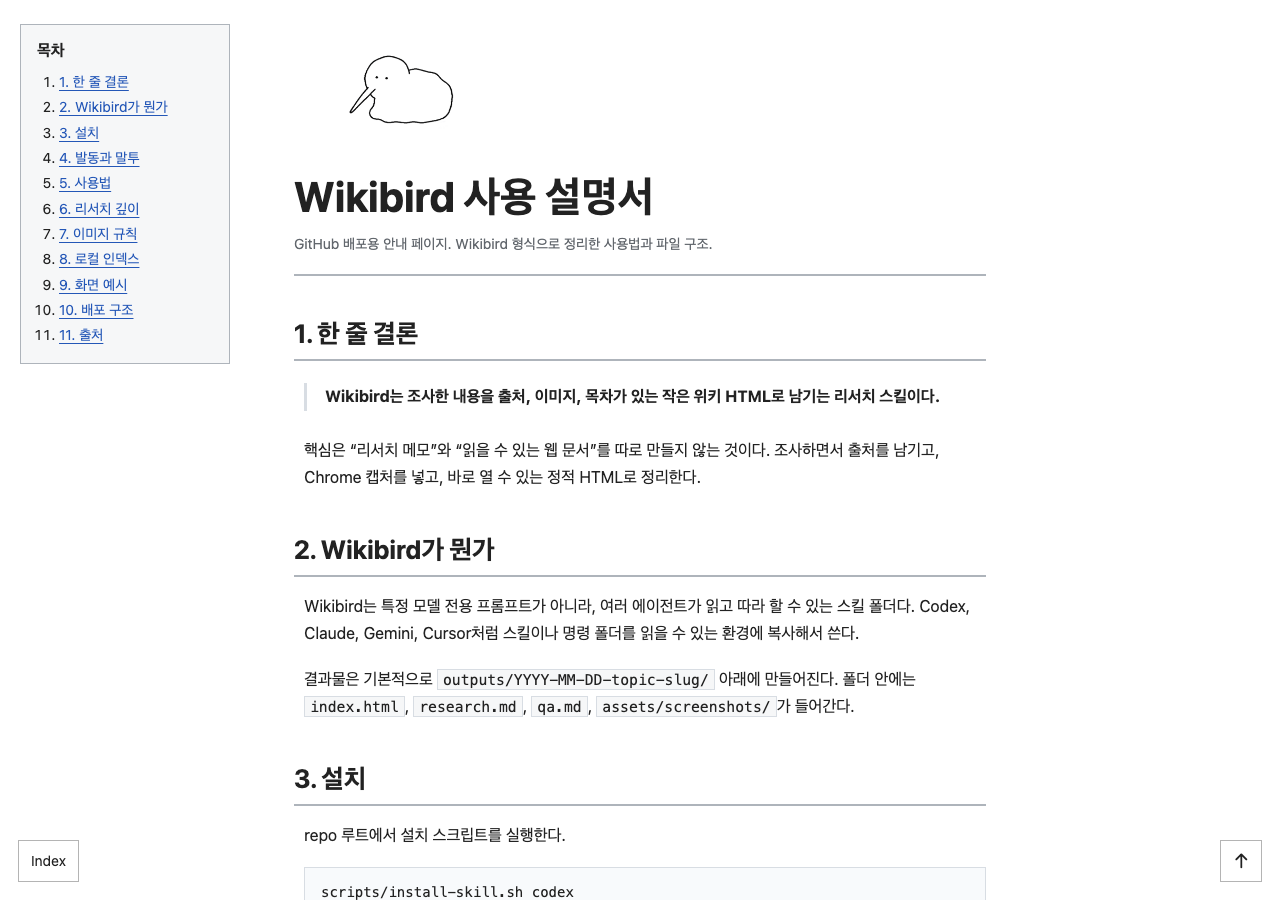
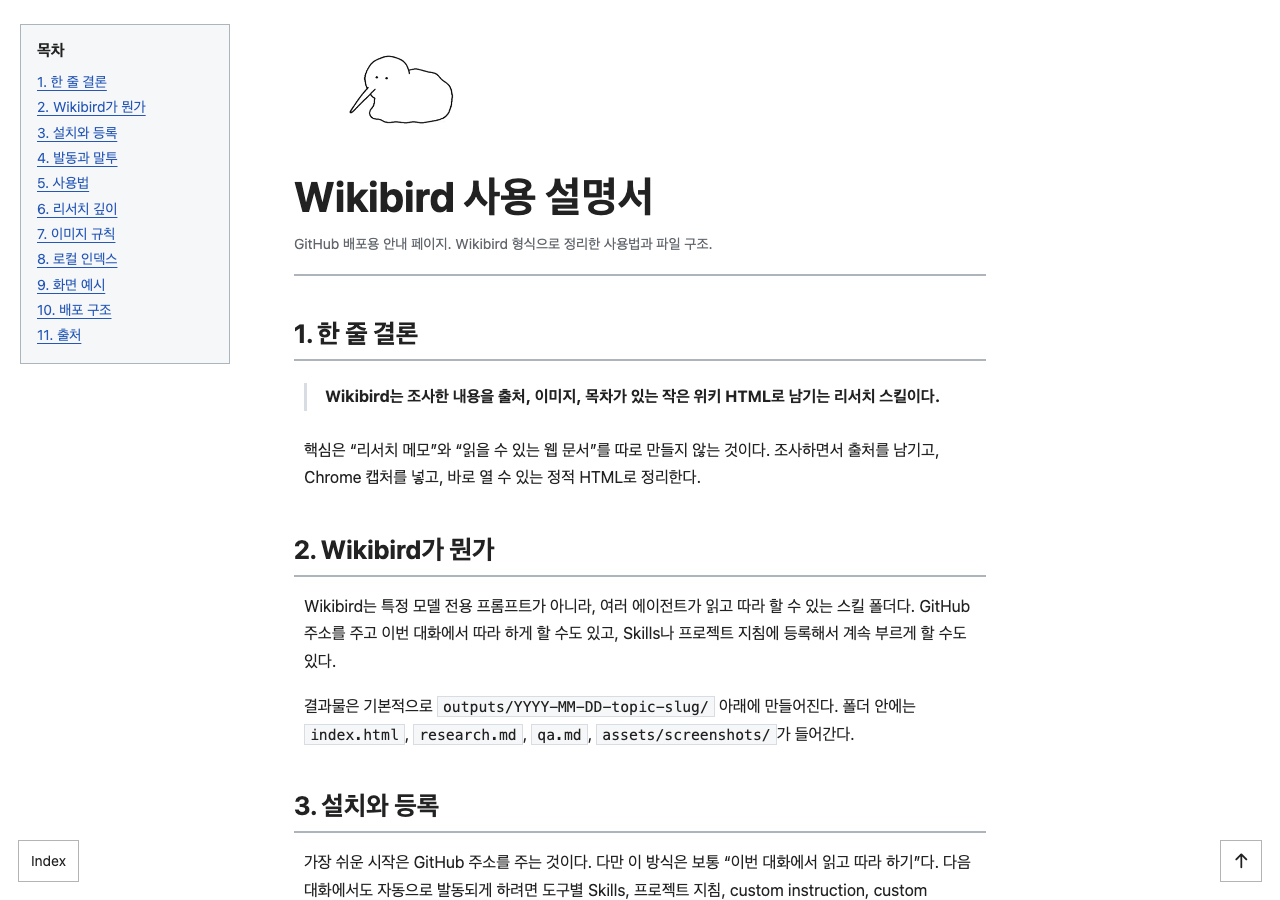
Refine Wikibird install guidance

Changed region(s): [[0.2188, 0.6533, 0.75, 1.0], [0.0312, 0.0622, 0.125, 0.4044]]

diff --git a/docs/index.html b/docs/index.html
@@ -158,7 +158,8 @@
 
 		.toc ol {
 			margin: 0;
-			padding-left: 22px;
+			padding-left: 0;
+			list-style: none;
 		}
 
 		.toc li { margin: 5px 0; }
@@ -382,7 +383,7 @@
 			<ol>
 				<li><a href="#summary">1. 한 줄 결론</a></li>
 				<li><a href="#what">2. Wikibird가 뭔가</a></li>
-				<li><a href="#install">3. 설치</a></li>
+				<li><a href="#install">3. 설치와 등록</a></li>
 				<li><a href="#activation">4. 발동과 말투</a></li>
 				<li><a href="#usage">5. 사용법</a></li>
 				<li><a href="#depth">6. 리서치 깊이</a></li>
@@ -404,20 +405,18 @@
 
 		<section id="what">
 			<h2>2. Wikibird가 뭔가</h2>
-			<p>Wikibird는 특정 모델 전용 프롬프트가 아니라, 여러 에이전트가 읽고 따라 할 수 있는 스킬 폴더다. Codex, Claude, Gemini, Cursor처럼 스킬이나 명령 폴더를 읽을 수 있는 환경에 복사해서 쓴다.</p>
+			<p>Wikibird는 특정 모델 전용 프롬프트가 아니라, 여러 에이전트가 읽고 따라 할 수 있는 스킬 폴더다. GitHub 주소를 주고 이번 대화에서 따라 하게 할 수도 있고, Skills나 프로젝트 지침에 등록해서 계속 부르게 할 수도 있다.</p>
 			<p>결과물은 기본적으로 <code>outputs/YYYY-MM-DD-topic-slug/</code> 아래에 만들어진다. 폴더 안에는 <code>index.html</code>, <code>research.md</code>, <code>qa.md</code>, <code>assets/screenshots/</code>가 들어간다.</p>
 		</section>
 
 		<section id="install">
-			<h2>3. 설치</h2>
-			<p>repo 루트에서 설치 스크립트를 실행한다.</p>
+			<h2>3. 설치와 등록</h2>
+			<p>가장 쉬운 시작은 GitHub 주소를 주는 것이다. 다만 이 방식은 보통 “이번 대화에서 읽고 따라 하기”다. 다음 대화에서도 자동으로 발동되게 하려면 도구별 Skills, 프로젝트 지침, custom instruction, custom command 중 하나에 등록한다.</p>
+			<pre><code>https://github.com/hyun2xyz/wiki_bird</code></pre>
+			<p>터미널형 에이전트에서는 repo 루트에서 설치 스크립트를 실행하는 방식이 가장 단순하다.</p>
 			<pre><code>scripts/install-skill.sh codex
 scripts/install-skill.sh claude
-scripts/install-skill.sh gemini
-scripts/install-skill.sh cursor</code></pre>
-			<p>전부 설치하려면 이렇게 실행한다.</p>
-			<pre><code>scripts/install-skill.sh all</code></pre>
-			<p>직접 복사해도 된다. 핵심은 <code>skills/wikibird-research-html</code> 폴더가 각 도구의 skills 폴더 안에 들어가는 것이다.</p>
+scripts/install-skill.sh all</code></pre>
 		</section>
 
 		<section id="activation">
@@ -428,14 +427,14 @@ scripts/install-skill.sh cursor</code></pre>
 			<div class="table-wrap">
 				<table>
 					<thead>
-						<tr><th>환경</th><th>넣는 방법</th><th>부르는 방법</th><th>메모</th></tr>
+						<tr><th>환경</th><th>쉬운 시작</th><th>계속 쓰는 방법</th><th>부르는 말</th></tr>
 					</thead>
 					<tbody>
-						<tr><td>ChatGPT / GPT</td><td>ChatGPT Skills에 스킬 폴더 업로드</td><td><code>$wikibird-research-html</code> 또는 “Wikibird로 조사해줘”</td><td>Agent Skills 형식 기준</td></tr>
-						<tr><td>Codex</td><td><code>scripts/install-skill.sh codex</code></td><td><code>Use $wikibird-research-html</code></td><td>프로젝트 <code>AGENTS.md</code>에도 규칙을 둘 수 있음</td></tr>
-						<tr><td>Claude</td><td>Claude Skills UI나 워크스페이스 Skills에 업로드</td><td>“Wikibird skill을 써줘”</td><td>플랜/워크스페이스 설정에 따라 다름</td></tr>
-						<tr><td>Claude Code</td><td><code>scripts/install-skill.sh claude</code></td><td>“Use wikibird-research-html”</td><td>프로젝트 전용 <code>.claude/skills/</code>도 가능</td></tr>
-						<tr><td>Gemini CLI</td><td><code>~/.gemini/skills/</code> 또는 custom command</td><td><code>/wikibird 주제</code></td><td>fallback은 <code>adapters/gemini/commands/wikibird.toml</code></td></tr>
+						<tr><td>ChatGPT / GPT</td><td>GitHub 주소를 주고 <code>README.md</code>, <code>SKILL.md</code>를 읽게 함</td><td>Skills 업로드가 있으면 zip 업로드. 없으면 Custom Instructions나 프로젝트 지침에 핵심 규칙 붙이기</td><td>“Wikibird로 조사해줘”</td></tr>
+						<tr><td>Codex</td><td><code>scripts/install-skill.sh codex</code></td><td><code>~/.codex/skills/</code> 또는 프로젝트 <code>AGENTS.md</code></td><td><code>Use $wikibird-research-html</code></td></tr>
+						<tr><td>Claude 앱</td><td>GitHub 주소를 주고 이번 대화에서 따라 하게 함</td><td>Skills 기능이 있으면 업로드. 없으면 Project knowledge나 custom instruction에 <code>SKILL.md</code> 넣기</td><td>“Wikibird skill을 써줘”</td></tr>
+						<tr><td>Claude Code</td><td><code>scripts/install-skill.sh claude</code></td><td><code>~/.claude/skills/</code> 또는 프로젝트 <code>.claude/skills/</code></td><td>“Use wikibird-research-html”</td></tr>
+						<tr><td>Gemini CLI</td><td>GitHub 주소나 <code>SKILL.md</code>를 읽게 함</td><td><code>scripts/install-skill.sh gemini</code>로 스킬 폴더와 <code>/wikibird</code> 명령을 같이 설치</td><td><code>/wikibird 주제</code></td></tr>
 					</tbody>
 				</table>
 			</div>
@@ -467,7 +466,7 @@ scripts/install-skill.sh cursor</code></pre>
 					</tbody>
 				</table>
 			</div>
-			<p>사용자가 깊이를 말하지 않으면 기본은 <code>중</code>이다. “쭉”, “자세히”, “공부용” 같은 표현이면 보통 <code>상</code>에 가깝게 잡는다.</p>
+			<p>Wikibird를 처음 등록하거나 처음 부를 때는 기본 리서치 깊이를 먼저 물어본다. 사용자가 깊이를 말하지 않고 바로 작업을 시키면 기본은 <code>중</code>으로 진행하고, 다음부터 바꿀 수 있다고 알려 준다.</p>
 		</section>
 
 		<section id="images">

diff --git a/outputs/2026-05-28-wikibird-manual/index.html b/outputs/2026-05-28-wikibird-manual/index.html
@@ -158,7 +158,8 @@
 
 		.toc ol {
 			margin: 0;
-			padding-left: 22px;
+			padding-left: 0;
+			list-style: none;
 		}
 
 		.toc li { margin: 5px 0; }
@@ -392,7 +393,7 @@
 			<ol>
 				<li><a href="#summary">1. 한 줄 결론</a></li>
 				<li><a href="#what">2. Wikibird가 뭔가</a></li>
-				<li><a href="#install">3. 설치</a></li>
+				<li><a href="#install">3. 설치와 등록</a></li>
 				<li><a href="#activation">4. 발동과 말투</a></li>
 				<li><a href="#usage">5. 사용법</a></li>
 				<li><a href="#depth">6. 리서치 깊이</a></li>
@@ -414,20 +415,18 @@
 
 		<section id="what">
 			<h2>2. Wikibird가 뭔가</h2>
-			<p>Wikibird는 특정 모델 전용 프롬프트가 아니라, 여러 에이전트가 읽고 따라 할 수 있는 스킬 폴더다. Codex, Claude, Gemini, Cursor처럼 스킬이나 명령 폴더를 읽을 수 있는 환경에 복사해서 쓴다.</p>
+			<p>Wikibird는 특정 모델 전용 프롬프트가 아니라, 여러 에이전트가 읽고 따라 할 수 있는 스킬 폴더다. GitHub 주소를 주고 이번 대화에서 따라 하게 할 수도 있고, Skills나 프로젝트 지침에 등록해서 계속 부르게 할 수도 있다.</p>
 			<p>결과물은 기본적으로 <code>outputs/YYYY-MM-DD-topic-slug/</code> 아래에 만들어진다. 폴더 안에는 <code>index.html</code>, <code>research.md</code>, <code>qa.md</code>, <code>assets/screenshots/</code>가 들어간다.</p>
 		</section>
 
 		<section id="install">
-			<h2>3. 설치</h2>
-			<p>repo 루트에서 설치 스크립트를 실행한다.</p>
+			<h2>3. 설치와 등록</h2>
+			<p>가장 쉬운 시작은 GitHub 주소를 주는 것이다. 다만 이 방식은 보통 “이번 대화에서 읽고 따라 하기”다. 다음 대화에서도 자동으로 발동되게 하려면 도구별 Skills, 프로젝트 지침, custom instruction, custom command 중 하나에 등록한다.</p>
+			<pre><code>https://github.com/hyun2xyz/wiki_bird</code></pre>
+			<p>터미널형 에이전트에서는 repo 루트에서 설치 스크립트를 실행하는 방식이 가장 단순하다.</p>
 			<pre><code>scripts/install-skill.sh codex
 scripts/install-skill.sh claude
-scripts/install-skill.sh gemini
-scripts/install-skill.sh cursor</code></pre>
-			<p>전부 설치하려면 이렇게 실행한다.</p>
-			<pre><code>scripts/install-skill.sh all</code></pre>
-			<p>직접 복사해도 된다. 핵심은 <code>skills/wikibird-research-html</code> 폴더가 각 도구의 skills 폴더 안에 들어가는 것이다.</p>
+scripts/install-skill.sh all</code></pre>
 		</section>
 
 		<section id="activation">
@@ -438,14 +437,14 @@ scripts/install-skill.sh cursor</code></pre>
 			<div class="table-wrap">
 				<table>
 					<thead>
-						<tr><th>환경</th><th>넣는 방법</th><th>부르는 방법</th><th>메모</th></tr>
+						<tr><th>환경</th><th>쉬운 시작</th><th>계속 쓰는 방법</th><th>부르는 말</th></tr>
 					</thead>
 					<tbody>
-						<tr><td>ChatGPT / GPT</td><td>ChatGPT Skills에 스킬 폴더 업로드</td><td><code>$wikibird-research-html</code> 또는 “Wikibird로 조사해줘”</td><td>Agent Skills 형식 기준</td></tr>
-						<tr><td>Codex</td><td><code>scripts/install-skill.sh codex</code></td><td><code>Use $wikibird-research-html</code></td><td>프로젝트 <code>AGENTS.md</code>에도 규칙을 둘 수 있음</td></tr>
-						<tr><td>Claude</td><td>Claude Skills UI나 워크스페이스 Skills에 업로드</td><td>“Wikibird skill을 써줘”</td><td>플랜/워크스페이스 설정에 따라 다름</td></tr>
-						<tr><td>Claude Code</td><td><code>scripts/install-skill.sh claude</code></td><td>“Use wikibird-research-html”</td><td>프로젝트 전용 <code>.claude/skills/</code>도 가능</td></tr>
-						<tr><td>Gemini CLI</td><td><code>~/.gemini/skills/</code> 또는 custom command</td><td><code>/wikibird 주제</code></td><td>fallback은 <code>adapters/gemini/commands/wikibird.toml</code></td></tr>
+						<tr><td>ChatGPT / GPT</td><td>GitHub 주소를 주고 <code>README.md</code>, <code>SKILL.md</code>를 읽게 함</td><td>Skills 업로드가 있으면 zip 업로드. 없으면 Custom Instructions나 프로젝트 지침에 핵심 규칙 붙이기</td><td>“Wikibird로 조사해줘”</td></tr>
+						<tr><td>Codex</td><td><code>scripts/install-skill.sh codex</code></td><td><code>~/.codex/skills/</code> 또는 프로젝트 <code>AGENTS.md</code></td><td><code>Use $wikibird-research-html</code></td></tr>
+						<tr><td>Claude 앱</td><td>GitHub 주소를 주고 이번 대화에서 따라 하게 함</td><td>Skills 기능이 있으면 업로드. 없으면 Project knowledge나 custom instruction에 <code>SKILL.md</code> 넣기</td><td>“Wikibird skill을 써줘”</td></tr>
+						<tr><td>Claude Code</td><td><code>scripts/install-skill.sh claude</code></td><td><code>~/.claude/skills/</code> 또는 프로젝트 <code>.claude/skills/</code></td><td>“Use wikibird-research-html”</td></tr>
+						<tr><td>Gemini CLI</td><td>GitHub 주소나 <code>SKILL.md</code>를 읽게 함</td><td><code>scripts/install-skill.sh gemini</code>로 스킬 폴더와 <code>/wikibird</code> 명령을 같이 설치</td><td><code>/wikibird 주제</code></td></tr>
 					</tbody>
 				</table>
 			</div>
@@ -477,7 +476,7 @@ scripts/install-skill.sh cursor</code></pre>
 					</tbody>
 				</table>
 			</div>
-			<p>사용자가 깊이를 말하지 않으면 기본은 <code>중</code>이다. “쭉”, “자세히”, “공부용” 같은 표현이면 보통 <code>상</code>에 가깝게 잡는다.</p>
+			<p>Wikibird를 처음 등록하거나 처음 부를 때는 기본 리서치 깊이를 먼저 물어본다. 사용자가 깊이를 말하지 않고 바로 작업을 시키면 기본은 <code>중</code>으로 진행하고, 다음부터 바꿀 수 있다고 알려 준다.</p>
 		</section>
 
 		<section id="images">

diff --git a/README.md b/README.md
@@ -94,9 +94,33 @@ $wikibird-research-html 써서 안드레 카파시를 조사해 주세요.
 | 중 | 기본 Wikibird 문서, 6-10개 출처 | 3-5장 |
 | 상 | 깊은 공부용 문서, 10개 이상 출처 가능하면 사용 | 5-8장 |
 
-## 설치
+## 설치와 발동
 
-이 repo를 받은 뒤 루트에서 실행합니다.
+가장 쉬운 기준은 이 GitHub 주소를 전달하는 것입니다.
+
+```text
+https://github.com/hyun2xyz/wiki_bird
+```
+
+단, GitHub 주소만 주는 방식은 “이번 대화에서 읽고 따라 하기”에 가깝습니다. 다음 대화에서도 자동으로 Wikibird가 발동되게 하려면 각 도구가 지원하는 Skills, 프로젝트 지침, 커스텀 명령, custom instruction 중 하나에 등록해야 합니다.
+
+처음 Wikibird를 학습시키거나 등록한 뒤에는 기본 리서치 깊이를 하나 정합니다.
+
+```text
+리서치 깊이를 기본값으로 정해둘까요? 하/중/상 중에서 고르면 됩니다.
+하: 빠른 개요, 중: 일반 Wikibird 문서, 상: 공부용 깊은 조사입니다.
+```
+
+| 환경 | 가장 쉬운 방법 | 계속 쓰는 방법 | 발동 문구 |
+| --- | --- | --- | --- |
+| ChatGPT / GPT | GitHub 주소를 주고 `README.md`와 `SKILL.md`를 읽어 달라고 합니다. | 계정/워크스페이스에 Skills 업로드 기능이 있으면 `skills/wikibird-research-html` 폴더를 zip으로 올립니다. 기능이 없으면 Custom Instructions나 프로젝트 지침에 핵심 규칙을 붙입니다. | “Wikibird로 조사해줘” |
+| Codex | 이 repo를 clone한 뒤 `scripts/install-skill.sh codex`를 실행합니다. | `~/.codex/skills/wikibird-research-html/`에 스킬 폴더를 둡니다. 프로젝트에서는 `AGENTS.md`에 Wikibird 사용 규칙을 적어도 됩니다. | `Use $wikibird-research-html` |
+| Claude 앱 | GitHub 주소를 주고 이번 대화에서 따라 하게 합니다. | 계정/워크스페이스에 Skills 기능이 있으면 스킬 폴더를 업로드합니다. 없으면 Project knowledge나 custom instruction에 `SKILL.md` 내용을 넣습니다. | “Wikibird skill을 써줘” |
+| Claude Code | 이 repo를 clone한 뒤 `scripts/install-skill.sh claude`를 실행합니다. | `~/.claude/skills/` 또는 프로젝트 `.claude/skills/`에 스킬 폴더를 둡니다. | “Use wikibird-research-html” |
+| Gemini CLI | GitHub 주소 또는 `SKILL.md` 내용을 읽게 합니다. | `scripts/install-skill.sh gemini`를 실행하면 스킬 폴더와 `/wikibird` custom command가 같이 설치됩니다. | `/wikibird 주제` |
+| 기타 LLM | GitHub 주소를 주고 따라 하게 합니다. | system/custom instruction, 프로젝트 지침, 지식 베이스에 `SKILL.md` 핵심을 넣습니다. | “Wikibird 모드로 정리해줘” |
+
+터미널에서 쓰는 에이전트는 설치 스크립트가 가장 단순합니다.
 
 ```sh
 scripts/install-skill.sh codex
@@ -111,28 +135,11 @@ scripts/install-skill.sh cursor
 scripts/install-skill.sh all
 ```
 
-직접 복사해도 됩니다.
+Gemini CLI에서 스킬 폴더를 바로 읽지 못하는 환경이면 custom command를 씁니다.
 
 ```sh
-cp -R skills/wikibird-research-html ~/.codex/skills/
-cp -R skills/wikibird-research-html ~/.claude/skills/
-cp -R skills/wikibird-research-html ~/.gemini/skills/
+scripts/install-skill.sh gemini
 ```
-
-ChatGPT나 Claude 웹/워크스페이스에서는 `skills/wikibird-research-html` 폴더만 zip으로 묶어서 Skills UI에 올리면 됩니다.
-
-## 환경별 발동 방법
-
-스킬을 “학습”시키는 방식은 도구마다 다릅니다. 핵심은 `skills/wikibird-research-html/SKILL.md`를 그 도구가 읽을 수 있는 위치에 두거나, 명령/프롬프트로 불러오게 하는 것입니다.
-
-| 환경 | 넣는 방법 | 발동 방법 | 비고 |
-| --- | --- | --- | --- |
-| ChatGPT / GPT | ChatGPT Skills에서 `skills/wikibird-research-html` 폴더를 업로드하거나 새 Skill로 만듭니다. | 대화에서 `$wikibird-research-html` 또는 “Wikibird로 조사해줘”처럼 명시합니다. | ChatGPT Skills는 Agent Skills 형식을 따릅니다. |
-| Codex | `scripts/install-skill.sh codex` 또는 `cp -R skills/wikibird-research-html ~/.codex/skills/` | Codex 세션에서 `Use $wikibird-research-html` 또는 “위키버드로 리서치해줘”라고 요청합니다. | 반복 사용하려면 프로젝트 `AGENTS.md`에 Wikibird 사용 규칙을 적어도 됩니다. |
-| Claude | Claude Skills UI 또는 워크스페이스 Skills에 스킬 폴더를 업로드합니다. | Claude가 설명과 요청을 보고 자동으로 고르거나, 사용자가 “Wikibird skill을 써줘”라고 부릅니다. | 워크스페이스/플랜 설정에 따라 Skills 사용 가능 여부가 다릅니다. |
-| Claude Code | `scripts/install-skill.sh claude` 또는 `cp -R skills/wikibird-research-html ~/.claude/skills/` | Claude Code에서 “Use wikibird-research-html” 또는 “Wikibird로 HTML 리서치 페이지 만들어줘”라고 요청합니다. | 프로젝트 전용으로는 `.claude/skills/wikibird-research-html/`에 둘 수 있습니다. |
-| Gemini CLI | 스킬 폴더를 직접 읽는 환경이면 `~/.gemini/skills/`에 복사합니다. 안정적인 fallback은 custom command입니다. | `~/.gemini/commands/wikibird.toml`을 설치한 뒤 Gemini CLI에서 `/wikibird 주제`처럼 호출합니다. | Gemini CLI custom commands는 재사용 프롬프트를 명령으로 저장하는 방식입니다. |
-| 일반 LLM / 기타 에이전트 | `SKILL.md` 내용을 system/custom instruction 또는 프로젝트 지침에 붙입니다. | “지금부터 Wikibird 모드로 답해줘”처럼 명시합니다. | 자동 발동이 없으면 매번 명시 호출이 필요합니다. |
 
 참고한 공식 문서:
 
@@ -141,17 +148,6 @@ ChatGPT나 Claude 웹/워크스페이스에서는 `skills/wikibird-research-html
 - Anthropic Docs, [Agent Skills - Claude Code](https://docs.claude.com/en/docs/claude-code/skills)
 - Anthropic Help Center, [Use Skills in Claude](https://support.claude.com/en/articles/12512180-use-skills-in-claude)
 - Gemini CLI Docs, [Custom Commands](https://google-gemini.github.io/gemini-cli/docs/cli/custom-commands.html)
-
-## Gemini CLI fallback
-
-Gemini CLI에서 스킬 폴더를 바로 읽지 못하는 환경이면 custom command를 씁니다.
-
-```sh
-mkdir -p ~/.gemini/commands
-cp adapters/gemini/commands/wikibird.toml ~/.gemini/commands/
-```
-
-그 다음 Gemini CLI에서 `wikibird` 명령에 조사할 주제를 넘겨 사용합니다.
 
 ## Chrome 스크린샷
 

diff --git a/docs/distribution-plan.md b/docs/distribution-plan.md
@@ -22,13 +22,16 @@ skills/wikibird-research-html/
 
 | Platform | Best path | Notes |
 | --- | --- | --- |
-| Codex / ChatGPT | Install or upload the `skills/wikibird-research-html` folder. | OpenAI documents skills as reusable workflows, supported in ChatGPT, Codex, and API. Skills do not sync across products yet. |
+| ChatGPT / GPT | If Skills upload is available, upload the `skills/wikibird-research-html` folder as a zip. Otherwise provide the GitHub URL or paste `SKILL.md` into Custom Instructions / project instructions. | GitHub URL works for one conversation when the model can read it. Persistent auto-activation requires a supported Skills or instruction surface. |
+| Codex | Install with `scripts/install-skill.sh codex` or copy the folder to `~/.codex/skills/`. | Project-level fallback is `AGENTS.md` with a pointer to the skill folder or repo URL. |
 | Claude Code | Copy to `~/.claude/skills/wikibird-research-html` or `.claude/skills/wikibird-research-html`. | Claude Code discovers personal and project skills from these directories. |
-| Claude web/workspace | Upload/share the skill package if the workspace has Skills enabled. | Workspace sharing is controlled by plan/admin settings. |
-| Gemini CLI | Prefer Agent Skills folder if the local version supports it. Also provide a custom command fallback. | Official Gemini CLI docs clearly support project/user custom commands. Agent Skills support is evolving across Gemini CLI/Antigravity variants, so the repo includes both a skill folder and `adapters/gemini/commands/wikibird.toml`. |
+| Claude web/workspace | Upload/share the skill package if the workspace has Skills enabled. Otherwise provide the GitHub URL or put `SKILL.md` in Project knowledge / custom instructions. | Workspace sharing is controlled by plan/admin settings. |
+| Gemini CLI | Prefer a custom command fallback: copy `adapters/gemini/commands/wikibird.toml` to `~/.gemini/commands/`. | Official Gemini CLI docs clearly support project/user custom commands. Agent Skills support varies across Gemini/Antigravity variants. |
 | Other agents | Copy the same `SKILL.md` folder into the agent's skill directory if it supports Agent Skills. | Keep the package standard: `SKILL.md`, `references/`, `assets/`, no hidden local dependencies. |
 
 Wikibird-specific activation check: after the skill is active, normal assistant replies should end with `짹`. If a host does not auto-load skills, put that voice rule in the host's custom instruction or command prompt.
+
+First-run setup check: ask the user to choose default research depth, `하` quick overview, `중` normal Wikibird document, or `상` deep study research. If they skip the question and give an immediate task, use `중` and say it can be changed later.
 
 Reference docs checked on 2026-05-27:
 

diff --git a/docs/wiki-html-style-rules.md b/docs/wiki-html-style-rules.md
@@ -22,6 +22,7 @@ outputs/YYYY-MM-DD-topic-slug/
 - Put a short meta line under the title: source freshness, document purpose, or revision date.
 - Use numbered `h2` and `h3` headings.
 - Include a visible `nav.toc` table of contents.
+- If TOC link text already includes heading numbers, remove browser list numbering with `list-style: none`; do not show duplicate numbers like `1. 1. 제목`.
 - On desktop, keep the table of contents fixed on the left while the article scrolls.
 - Keep the article itself centered in the viewport. Do not offset `main` to compensate for the TOC.
 - The desktop TOC box should end directly after the last TOC item. Do not stretch it to the bottom of the viewport unless the TOC is taller than the viewport.
@@ -40,6 +41,7 @@ outputs/YYYY-MM-DD-topic-slug/
 - Desktop left TOC width: around `240-280px`.
 - Desktop TOC: `position: fixed`, `top` set, no fixed `bottom`, `height: fit-content`, and slightly larger bottom padding than top padding for optical balance. Use `max-height` only as a fallback for very long TOCs.
 - Desktop TOC should sit farther left than the centered article. A good default is `left: max(16px, calc((100vw - 1500px) / 2));`.
+- TOC lists should use either browser-generated numbers or numbers in the link text, not both. For Wikibird's numbered heading text, use `list-style: none; padding-left: 0;`.
 - Callout/key blocks should use a quiet left-border note style, not a full tinted box. Keep mint only for rare highlights that need stronger emphasis.
 - Korean prose should break by word, not by arbitrary syllable. Use `word-break: keep-all`, `overflow-wrap: break-word`, and `hyphens: auto` on normal text. Keep stronger breaking only for code or unusually long tokens.
 - Indent section body content slightly under the heading line. Keep headings aligned, but give direct section children such as paragraphs, lists, key notes, figures, tables, timelines, and flow blocks about `10px` of left offset. Reset that offset on mobile.

diff --git a/skills/wikibird-research-html/references/wiki-html-style-rules.md b/skills/wikibird-research-html/references/wiki-html-style-rules.md
@@ -10,6 +10,7 @@ The target is a compact, readable wiki page: factual, easy to scan, and closer t
 - Keep `h1` in the Korean gothic/system sans stack, not a serif title font. Make it readable when it wraps with `clamp(30px, 3.4vw, 42px)` and `line-height: 1.18`.
 - Use numbered `h2` and `h3` headings.
 - Include a visible `nav.toc` table of contents.
+- If TOC link text already includes heading numbers, remove browser list numbering with `list-style: none`; do not show duplicate numbers like `1. 1. 제목`.
 - Keep body width around `820-900px`.
 - Keep `main` centered with `margin: 0 auto`; do not offset the article for the desktop TOC.
 - Use word-based Korean wrapping for prose: `word-break: keep-all`, `overflow-wrap: break-word`, and `hyphens: auto`. Reserve `overflow-wrap: anywhere` for code or unusually long tokens.
@@ -25,6 +26,7 @@ The target is a compact, readable wiki page: factual, easy to scan, and closer t
 - Use `max-height` only as a fallback for very long TOCs.
 - Use slightly larger bottom padding than top padding for optical balance.
 - A good default is `padding: 14px 16px 18px`.
+- TOC lists should use either browser-generated numbers or numbers in the link text, not both. For Wikibird's numbered heading text, use `list-style: none; padding-left: 0;`.
 
 ## Mobile TOC
 

diff --git a/.claude/agents/research-html-builder.md b/.claude/agents/research-html-builder.md
@@ -22,6 +22,7 @@ You are a research-to-HTML production agent. Your job is to gather evidence, syn
 - Start with the narrowest useful scope. Ask only when the missing choice would materially change the result.
 - Use live research for current facts, prices, laws, schedules, people, companies, product specs, and recommendations.
 - Support `리서치 깊이` / `research depth` as `하`, `중`, or `상`; default to `중`.
+- On first activation or fresh setup, ask the user once to choose a default research depth: `하` quick overview, `중` normal Wikibird document, `상` deep study research. If they give an immediate task without answering, proceed with `중` and say it can be changed next time.
 - Prefer primary sources: official docs, filings, standards, papers, datasets, direct announcements, and original interviews.
 - Use secondary sources to add context, not as the only basis for important claims.
 - Never invent citations, quotes, screenshots, numbers, or source titles.

diff --git a/skills/wikibird-research-html/SKILL.md b/skills/wikibird-research-html/SKILL.md
@@ -30,6 +30,15 @@ Accept these optional user settings in Korean or English. If the user does not s
 | --- | --- | --- | --- |
 | `리서치 깊이` / `research depth` | `하`, `중`, `상` | `중` | Controls source count, detail level, image count, and QA strictness. |
 
+On first activation or after a fresh install, ask the user to choose a default research depth before starting the first research task when the flow allows it:
+
+```text
+리서치 깊이를 기본값으로 정해둘까요? 하/중/상 중에서 고르면 됩니다.
+하: 빠른 개요, 중: 일반 Wikibird 문서, 상: 공부용 깊은 조사입니다.
+```
+
+If the user gives a clear immediate task and does not answer the setup question, proceed with `중` for that task and mention that they can change the depth next time.
+
 Depth rules:
 
 - `하`: quick wiki note. Use about 3-5 reliable sources, 1-2 screenshots, and a compact page with the essential flow only.

diff --git a/skills/wikibird-research-html/references/research-html-workflow.md b/skills/wikibird-research-html/references/research-html-workflow.md
@@ -8,6 +8,15 @@ Capture topic, audience, output language, freshness needs, required sources, ban
 
 Use `중` unless the user says otherwise.
 
+On first activation or after a fresh install, ask the user to choose a default research depth:
+
+```text
+리서치 깊이를 기본값으로 정해둘까요? 하/중/상 중에서 고르면 됩니다.
+하: 빠른 개요, 중: 일반 Wikibird 문서, 상: 공부용 깊은 조사입니다.
+```
+
+If the user gives a concrete task and does not answer the setup question, proceed with `중` for that task and note that the default can be changed later.
+
 | Depth | Sources | Screenshots | Use when |
 | --- | --- | --- | --- |
 | `하` | 3-5 | 1-2 | Quick orientation, short explanation, small note. |

diff --git a/outputs/2026-05-28-wikibird-manual/qa.md b/outputs/2026-05-28-wikibird-manual/qa.md
@@ -6,6 +6,7 @@
 - Links checked: internal/manual links checked
 - Citation section present: yes, `출처`
 - Desktop left TOC checked: yes
+- TOC duplicate numbering checked: yes
 - Mobile TOC drawer checked: yes
 - Index return button checked: yes
 - Chrome screenshots captured: yes, local index and manual page
@@ -15,5 +16,6 @@
 - Person profile baseline checked: not applicable
 - Overflow checked: yes
 - 1280px left TOC checked: yes, fixed TOC visible without overlapping the article
+- Install/activation guidance checked for duplicate sections: yes, README and manual now use one "설치와 발동/등록" flow
 - Known limits:
   - GitHub Pages 배포 시 repo 설정에서 Pages source를 `docs/`로 지정해야 한다.

diff --git a/docs/research-html-workflow.md b/docs/research-html-workflow.md
@@ -35,6 +35,15 @@ Before researching, capture:
 - Must-use or banned sources.
 - Whether the page is informational, persuasive, instructional, or comparative.
 
+On first activation or after a fresh install, ask the user to choose a default research depth:
+
+```text
+리서치 깊이를 기본값으로 정해둘까요? 하/중/상 중에서 고르면 됩니다.
+하: 빠른 개요, 중: 일반 Wikibird 문서, 상: 공부용 깊은 조사입니다.
+```
+
+If the user gives a concrete task and does not answer the setup question, proceed with `중` for that task and note that the default can be changed later.
+
 If the topic includes current facts, do live verification.
 
 Depth settings:

diff --git a/outputs/2026-05-28-wikibird-manual/research.md b/outputs/2026-05-28-wikibird-manual/research.md
@@ -8,6 +8,10 @@
   - `skills/wikibird-research-html/SKILL.md`
   - `docs/research-html-workflow.md`
   - `docs/wiki-html-style-rules.md`
+- 업데이트 내용:
+  - 목차 중복 번호 제거
+  - 설치/발동 안내를 GitHub URL, Skills 업로드, 프로젝트 지침, custom command 방식으로 정리
+  - 첫 실행 시 리서치 깊이 기본값을 묻는 규칙 반영
 
 ## 이미지 커버리지
 
